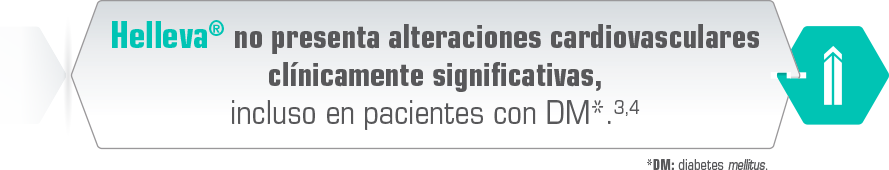
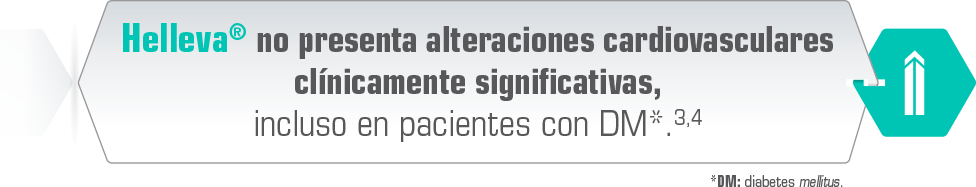
Slide 3

diff --git a/slide_3.html b/slide_3.html
@@ -26,7 +26,7 @@
 
     <div id="img15" class="animated fadeIn">
       <a class="example-image-link" href="Slide3/Graf_1b.png" data-lightbox="lightbox">
-        <img src="Slide3/Graf_1.png" style="height: 287px;width: 295.5px;">
+        <img src="Slide3/Graf_1.png" style="height: 289.5px;width: 396.5px;">
       </a>
     </div>
 
@@ -41,9 +41,9 @@
 
 
 
-    <div id="img19" class="animated fadeInLeft"><img src="Slide3/txt01.png" style="height:85px; width: 444.5px;"></div>
+    <div id="img19" class="animated fadeInLeft"><img src="Slide3/Txt_1.png" style="height:93.5px; width: 488px;"></div>
 
-    <div id="img20" class="animated fadeInUp"><img src="Slide3/txt02.png" style="height: 147px;width: 353px;"></div>
+    <div id="img20" class="animated fadeInUp"><img src="Slide3/Txt_2.png" style="height: 161.5px;width: 388px;"></div>
 
     <div id="img21" class="animated fadeInLeft"><img src="Slide3/txt03.png" style="height: 129.5px;width: 521px;"></div>
 
@@ -56,7 +56,7 @@
   
 
   </div>
-    
+
   <div class="overlay overlay-hugeinc">
     <button type="button" id="close" class="overlay-close">Close</button>
     

diff --git a/css/delays.css b/css/delays.css
@@ -110,7 +110,7 @@
 	-o-animation-delay: 3s;
 	animation-delay: 3s;
 }
-#img5, #img8, #img17, #img24, #img29{
+#img5, #img8, #img24, #img29{
 	webkit-animation-delay: 3.5s;
 	-o-animation-delay: 3.5s;
 	animation-delay: 3.5s;
@@ -119,6 +119,12 @@
 	webkit-animation-delay: 4.1s;
 	-o-animation-delay: 4.1s;
 	animation-delay: 4.1s;
+}
+#img17{
+	webkit-animation-delay: 3.5s;
+	-o-animation-delay: 3.5s;
+	animation-delay: 3.5s;
+	animation-duration: 5s;
 }
 #img7{
 	webkit-animation-delay: 4.1s;

diff --git a/css/main.css b/css/main.css
@@ -173,7 +173,7 @@ body{
 #img15{
 	position: absolute;
     top: 153px;
-    right: 186px;
+    right: 49px;
 }
 #img21{
 	position: absolute;
